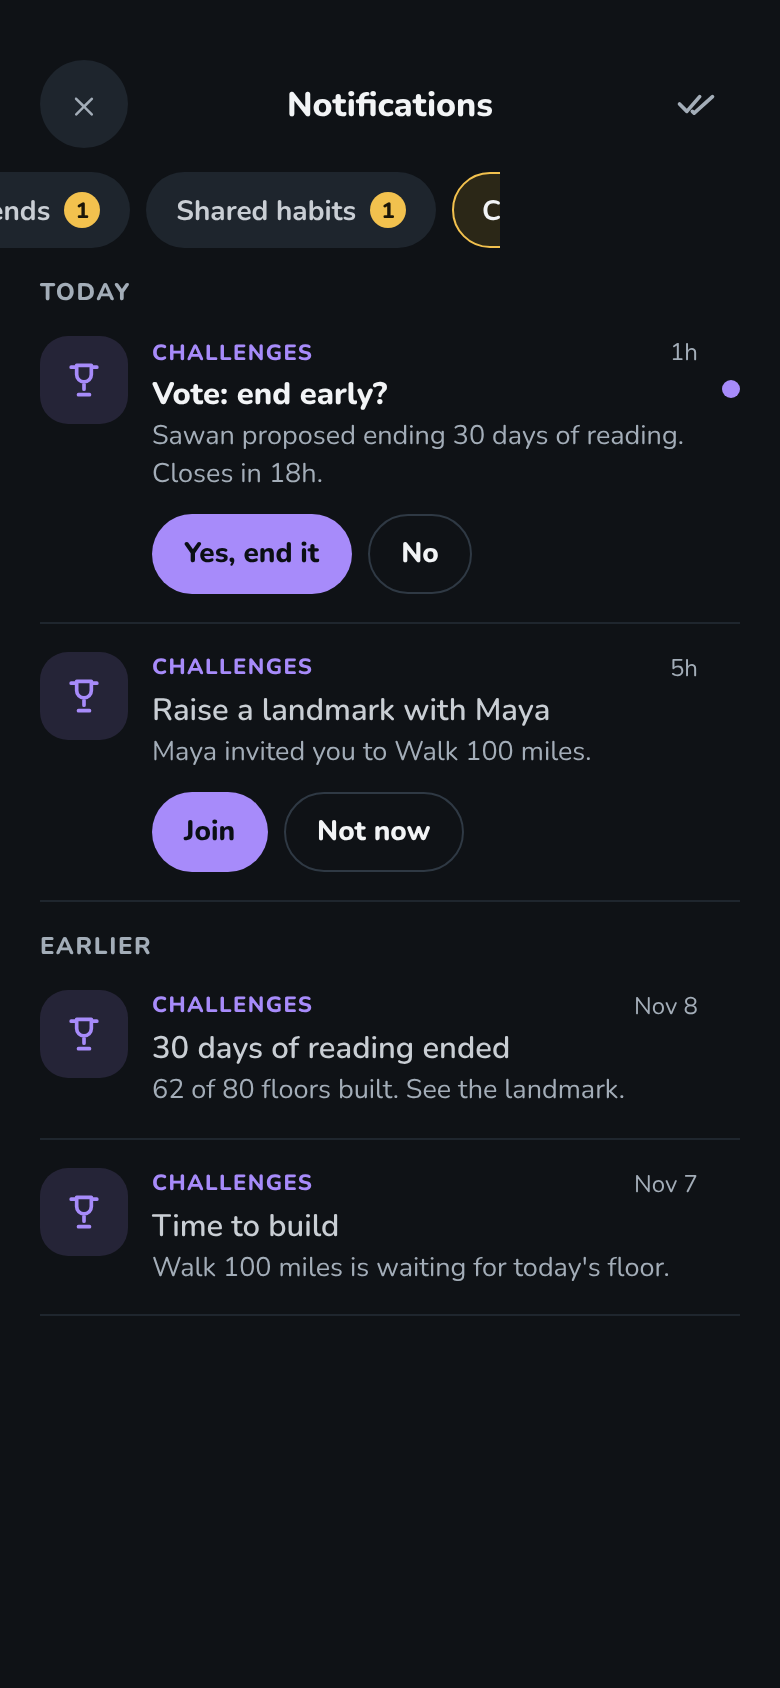
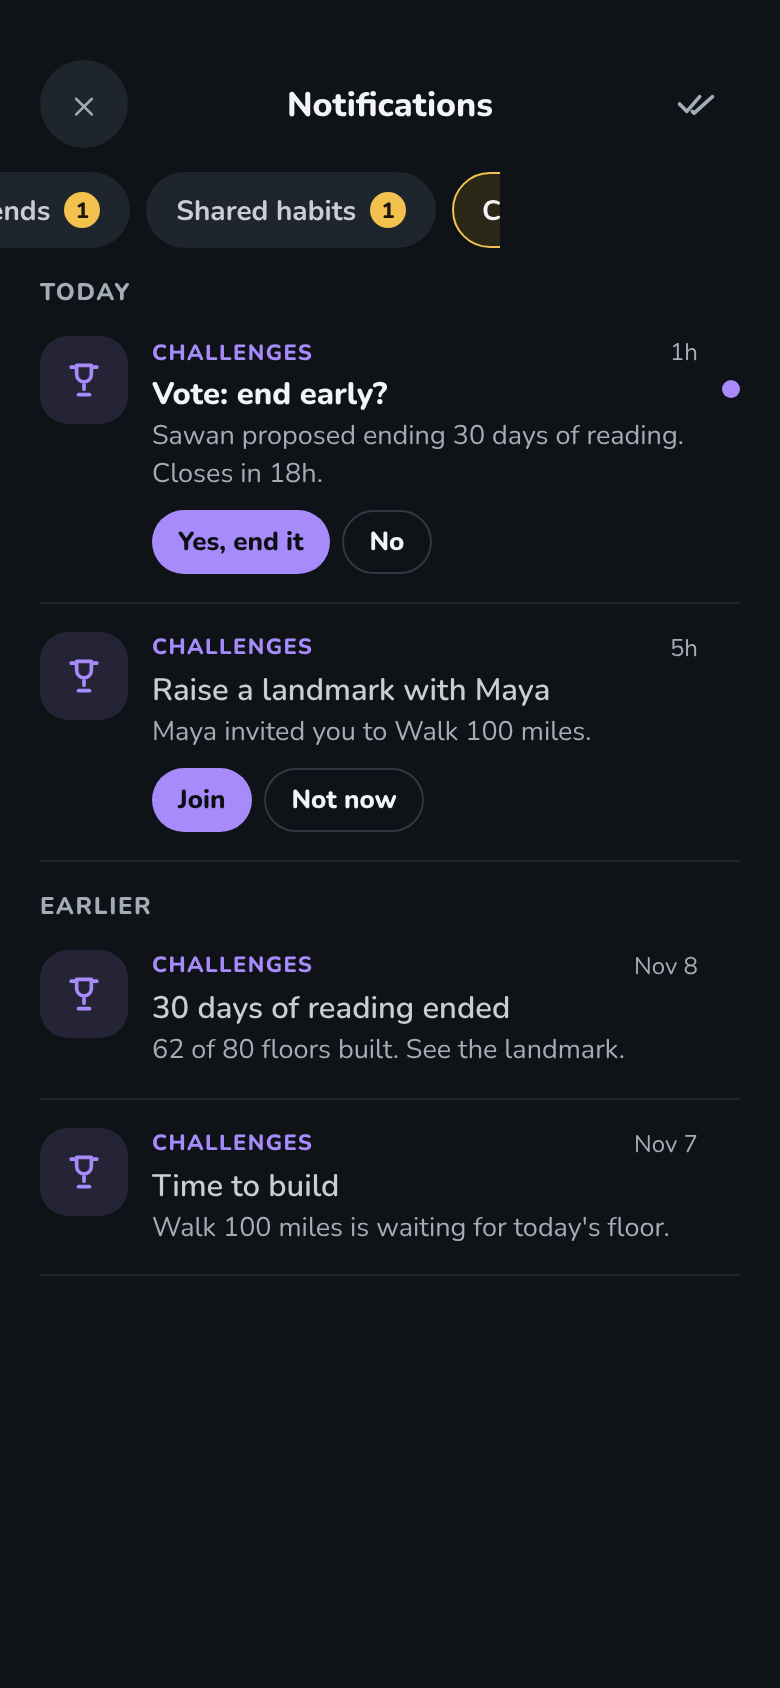
Design: smaller inline buttons on the notification center
Claude-Session: https://claude.ai/code/session_01UvWD32uMFJU1E2B9jDYiLg

diff --git a/design/skyline/source/old.js b/design/skyline/source/old.js
@@ -257,7 +257,7 @@ if(S3==='ev-list'){
 const NCAT={friends:['FRIENDS','#38BDF8'],shared:['SHARED HABITS','#FF8A5C'],chal:['CHALLENGES','#A78BFA'],rem:['REMINDERS','#F2C14E'],sum:['SUMMARIES','#14B8A6']};
 const NIC={friends:'<circle cx="10" cy="8" r="3.5"/><path d="M3 20c0-4 3-6 7-6s7 2 7 6M19 7v6M16 10h6"/>',shared:'<circle cx="9" cy="8" r="3"/><circle cx="17" cy="9" r="2.5"/><path d="M3 20c0-3 3-5 6-5s6 2 6 5M16 15c3 0 5 1.5 5 4"/>',chal:'<path d="M8 4h8v5a4 4 0 0 1-8 0ZM5 5h3M16 5h3M12 13v4M9 20h6"/>',rem:'<path d="M6 17V11a6 6 0 0 1 12 0v6l2 2H4ZM10 21h4"/>',sum:'<rect x="4" y="5" width="16" height="15" rx="2"/><path d="M4 10h16M9 3v4M15 3v4"/>'};
 const nIcon=(k,c)=>`<svg width="22" height="22" viewBox="0 0 24 24" fill="none" stroke="${c}" stroke-width="2" stroke-linecap="round" stroke-linejoin="round">${NIC[k]}</svg>`;
-const nRow=(k,title,body,time,unread,acts)=>{const [lab,c]=NCAT[k];return `<div style="display:flex;gap:12px;padding:14px 0;border-bottom:1px solid #1F262E;align-items:flex-start"><div style="width:44px;height:44px;border-radius:14px;background:${c}26;display:flex;align-items:center;justify-content:center;flex:0 0 44px">${nIcon(k,c)}</div><div style="flex:1;min-width:0"><div style="display:flex;justify-content:space-between;align-items:center"><span style="font-size:11px;font-weight:800;letter-spacing:.7px;color:${c}">${lab}</span><span style="font-size:12px;color:#A3ADB8">${time}</span></div><div style="font-size:15.5px;font-weight:${unread?800:600};margin-top:2px;${unread?'':'color:#C9CED4'}">${title}</div><div style="font-size:13.5px;color:#A3ADB8;line-height:1.4;margin-top:2px">${body}</div>${acts?`<div style="display:flex;gap:8px;margin-top:10px">${acts.map((a,i)=>`<div style="height:40px;padding:0 16px;border-radius:20px;display:flex;align-items:center;font-weight:800;font-size:14px;${i===0?`background:${c};color:#0b0f14`:'border:1.5px solid #2F3944;color:#F2F4F6'}">${a}</div>`).join('')}</div>`:''}</div>${unread?`<i style="width:9px;height:9px;border-radius:50%;background:${c};display:block;margin-top:22px"></i>`:'<i style="width:9px;display:block"></i>'}</div>`};
+const nRow=(k,title,body,time,unread,acts)=>{const [lab,c]=NCAT[k];return `<div style="display:flex;gap:12px;padding:14px 0;border-bottom:1px solid #1F262E;align-items:flex-start"><div style="width:44px;height:44px;border-radius:14px;background:${c}26;display:flex;align-items:center;justify-content:center;flex:0 0 44px">${nIcon(k,c)}</div><div style="flex:1;min-width:0"><div style="display:flex;justify-content:space-between;align-items:center"><span style="font-size:11px;font-weight:800;letter-spacing:.7px;color:${c}">${lab}</span><span style="font-size:12px;color:#A3ADB8">${time}</span></div><div style="font-size:15.5px;font-weight:${unread?800:600};margin-top:2px;${unread?'':'color:#C9CED4'}">${title}</div><div style="font-size:13.5px;color:#A3ADB8;line-height:1.4;margin-top:2px">${body}</div>${acts?`<div style="display:flex;gap:6px;margin-top:8px">${acts.map((a,i)=>`<div style="height:32px;padding:0 13px;border-radius:16px;display:flex;align-items:center;font-weight:800;font-size:13px;${i===0?`background:${c};color:#0b0f14`:'border:1.5px solid #2F3944;color:#F2F4F6'}">${a}</div>`).join('')}</div>`:''}</div>${unread?`<i style="width:9px;height:9px;border-radius:50%;background:${c};display:block;margin-top:22px"></i>`:'<i style="width:9px;display:block"></i>'}</div>`};
 const nChips=(on)=>{const L=[['All',3],['Friends',1],['Shared habits',1],['Challenges',1],['Reminders',0],['Summaries',0]];return `<div style="display:flex;gap:8px;overflow:hidden;white-space:nowrap;padding:0 20px;${on>=3?'transform:translateX(-140px);':''}">${L.map(([t,n],i)=>`<div style="height:38px;border-radius:19px;padding:0 14px;display:flex;align-items:center;gap:7px;font-weight:700;font-size:14px;${i===on?'background:#2B2717;border:1.5px solid #F2C14E;color:#F2F4F6':'background:#1E252D;color:#C9CED4;border:1.5px solid transparent'}">${t}${n?`<span style="min-width:18px;height:18px;border-radius:9px;background:#F2C14E;color:#1b1608;font-size:11px;font-weight:800;display:flex;align-items:center;justify-content:center;padding:0 5px">${n}</span>`:''}</div>`).join('')}</div>`};
 const nHead=`<div style="display:flex;align-items:center;justify-content:space-between;padding:30px 20px 12px"><div style="width:44px;height:44px;border-radius:22px;background:#1E252D;display:flex;align-items:center;justify-content:center;font-size:20px;color:#A3ADB8">×</div><div style="font-size:17px;font-weight:800">Notifications</div><div style="width:44px;height:44px;display:flex;align-items:center;justify-content:center">${ico('check-all',22,'#A3ADB8')}</div></div>`;
 const dayH=(t)=>`<div style="font-size:12px;font-weight:800;letter-spacing:.8px;color:#A3ADB8;margin:14px 0 0">${t}</div>`;

diff --git a/design/skyline/README.md b/design/skyline/README.md
@@ -44,7 +44,7 @@ This is the only folder of Skyline mockups. The old `concept _screens/` folder w
 | 37 | `37-firstrun-notification-explainer.png` | First run: notification explainer | 7 | **APPROVED by the owner 2026-11-16, copy corrected 2026-11-16.** Uses the app's existing PushPermissionModal copy word for word ("Stay on track", "Not now" / "Allow notifications"). My first draft's copy was replaced. |
 | 38 | `38-firstrun-location-explainer.png` | First run: location explainer | 7 | **APPROVED by the owner 2026-11-16.** SKYLINE §5 step 6. Uses the existing LocationPermissionModal copy word for word, restyled. |
 | 39 | `39-retired-towers-list.png` | Retired towers list | 3 | **APPROVED by the owner 2026-11-16.** Restyle of the existing screen: icon tile, name, Restore, delete. The explanatory line under the list is mine. The developer confirms the list already opens from a header icon. |
-| 40 | `40-notification-center.png` | Notification center | 7 | **PROPOSAL, redesigned 2026-11-18, awaiting owner approval.** Rows no longer look alike: five categories, each with its own colour, icon and label (Friends, Shared habits, Challenges, Reminders, Summaries); chips at the top filter the list and show their unread counts; rows are grouped Today / Earlier; unread rows are bolder with a category-coloured dot. Requests, invites and the end-early vote get inline buttons (new behaviour). A Nudge is a Reminder (owner). Sample titles and bodies are mine; the real ones come from the server. The old board is in `superseded/`. |
+| 40 | `40-notification-center.png` | Notification center | 7 | **PROPOSAL, redesigned 2026-11-18, awaiting owner approval.** Rows no longer look alike: five categories, each with its own colour, icon and label (Friends, Shared habits, Challenges, Reminders, Summaries); chips at the top filter the list and show their unread counts; rows are grouped Today / Earlier; unread rows are bolder with a category-coloured dot. Requests, invites and the end-early vote get small inline buttons (new behaviour; 32pt tall as drawn at the owner's request, with the tap area padded to 44dp). A Nudge is a Reminder (owner). Sample titles and bodies are mine; the real ones come from the server. The old board is in `superseded/`. |
 | 41 | `41-ask-habituate-chat.png` | Ask Habituate, conversation | 7 | **APPROVED by the owner 2026-11-16.** Uses the existing strings: "Ask Habituate", "Ask about your routine...", "AI suggestions can be imperfect. You're in control.", "Nothing changes until you confirm.", "Confirm adjustment" / "Keep my goal". The question and answer text are sample copy, written non-causally. |
 | 42 | `42-ask-habituate-empty.png` | Ask Habituate, empty state with starter questions | 7 | **APPROVED by the owner 2026-11-16.** Starter questions are generated from the user's habits in the app; the three shown and the heading text are my sample copy. |
 | 43 | `43-friend-skyline-public.png` | Friend skyline, public profile | 6 | **PROPOSAL, awaiting approval (revised 2026-11-16 per the owner).** Towers without habit names, each in the habit's own colour, with finished towers shown faded behind the current one (up to two, as on your own skyline). Needs a friendship-gated endpoint returning floors, colour and a finished-tower count, but no names. The developer has sent a plan; backend not yet approved. |
